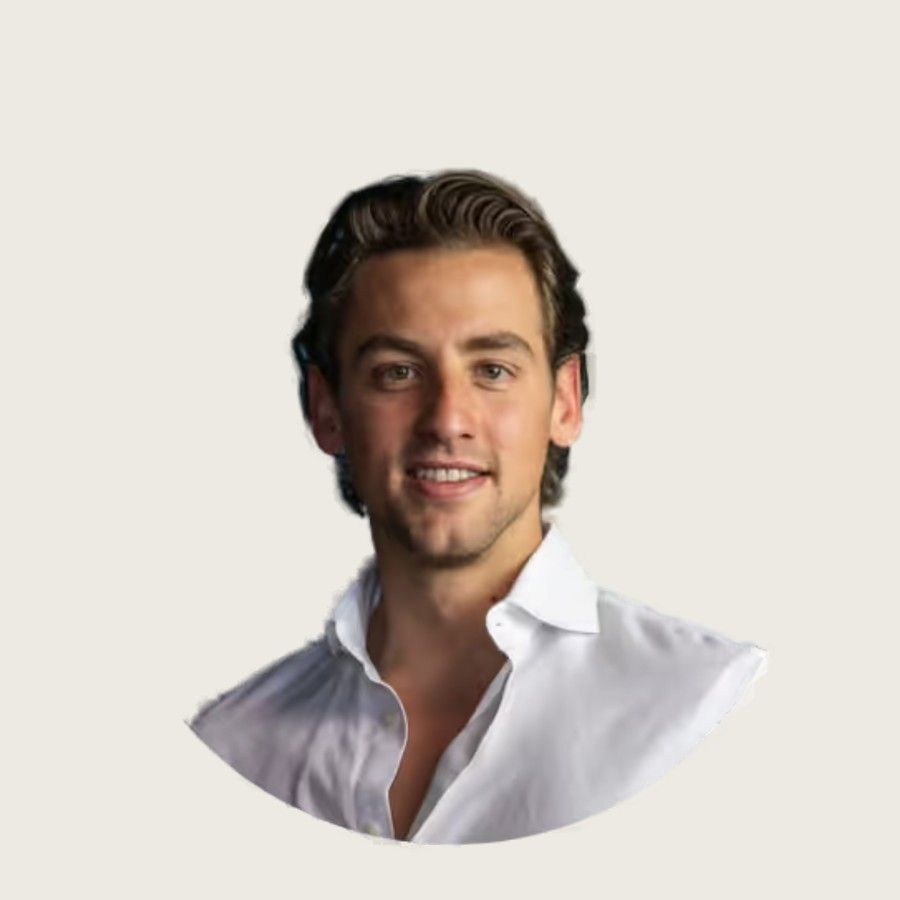
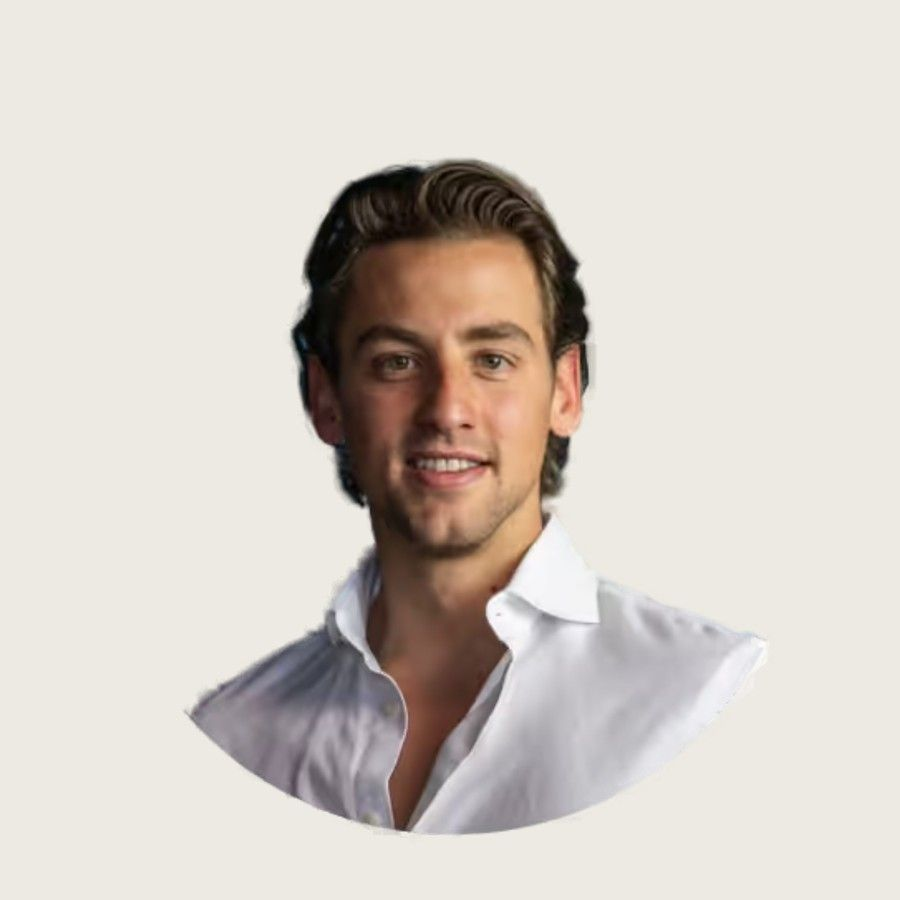
Team: add sales team, group by region, fix two circle crops
- Add Bo Gyi (Europe), Gino (Eastern Europe) and Oisin (United States),
  cut out and normalised on brand sand like the rest.
- Group the roster by sales region instead of office: Hong Kong,
  Netherlands, Europe, Eastern Europe, Barcelona, United States.
- Tighten the circle framing for Robbert-Jan and Leonard.

Still to add once photos arrive: Judith (Barcelona), Iris and Marieke
(Netherlands), Nancy (Europe), and Jasmijn (Asa Matcha, TBC). Sales-team
roles are placeholders pending real titles.

Claude-Session: https://claude.ai/code/session_012sUTwtPdH11qSoivRLDWgW

Changed region(s): [[0.1867, 0.1556, 0.6844, 0.9644], [0.7156, 0.6533, 0.84, 0.7467], [0.6533, 0.8711, 0.6844, 0.9022]]

diff --git a/src/data/trust.ts b/src/data/trust.ts
@@ -31,12 +31,19 @@ export const TEAM: TeamMember[] = [
   { name: "Fannie", role: "Sourcing", photo: "/team/fannie.jpg", location: "Hong Kong" },
   { name: "Candy", role: "Partnerships", photo: "/team/candy.jpg", location: "Hong Kong" },
   { name: "Lucinda", role: "Quality control", photo: "/team/lucinda.jpg", location: "Hong Kong" },
-  { name: "Robbert-Jan", role: "Sales, consulting & strategy", photo: "/team/robbert-jan.jpg", location: "Amsterdam" },
-  { name: "Leonard", role: "Digital strategy & operations", photo: "/team/leonard.jpg", location: "Amsterdam" },
-  { name: "Max", role: "Sales & supply chain", photo: "/team/max.jpg", location: "Amsterdam" },
+  { name: "Robbert-Jan", role: "Sales, consulting & strategy", photo: "/team/robbert-jan.jpg", location: "Netherlands" },
+  { name: "Leonard", role: "Digital strategy & operations", photo: "/team/leonard.jpg", location: "Netherlands" },
+  { name: "Max", role: "Sales & supply chain", photo: "/team/max.jpg", location: "Netherlands" },
+  { name: "Bo Gyi", role: "Sales", photo: "/team/bo-gyi.jpg", location: "Europe" },
+  { name: "Gino", role: "Sales", photo: "/team/gino.jpg", location: "Eastern Europe" },
+  { name: "Oisin", role: "Sales", photo: "/team/oisin.jpg", location: "United States" },
+  // Still to add once photos arrive: Judith (Barcelona), Iris (Netherlands),
+  // Marieke (Netherlands), Nancy (Europe), and Jasmijn (Asa Matcha — TBC).
+  // Roles for the sales team are placeholders ("Sales") pending real titles.
+  //
   // All portraits share one treatment: cut out and placed on brand sand, with
-  // face size and eye-line normalised, so the roster reads as one set. To add
-  // more people, run a headshot through the same pipeline and add an entry here.
+  // face size and eye-line normalised, so the roster reads as one set. The
+  // section groups by `location`; LOCATION_ORDER in TeamSection sets the order.
 ];
 
 // Certifications — official marks supplied by SFP.

diff --git a/src/components/TeamSection.tsx b/src/components/TeamSection.tsx
@@ -14,7 +14,14 @@ function Silhouette() {
 }
 
 // Group the roster by operating location, in a stable, sensible order.
-const LOCATION_ORDER = ["Hong Kong", "Amsterdam", "Los Angeles"];
+const LOCATION_ORDER = [
+  "Hong Kong",
+  "Netherlands",
+  "Europe",
+  "Eastern Europe",
+  "Barcelona",
+  "United States",
+];
 function groupByLocation(members: TeamMember[]): { location: string; members: TeamMember[] }[] {
   const byLoc = new Map<string, TeamMember[]>();
   for (const m of members) {
